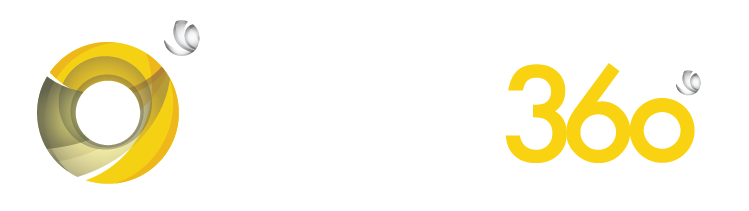
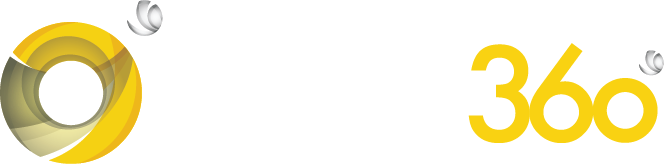
fix some issues

Changed region(s): [[0.0, 0.0, 0.2711, 1.0], [0.6627, 0.2744, 0.994, 0.8841], [0.9639, 0.3049, 1.0, 0.4573]]

diff --git a/css/BIMViewer.css b/css/BIMViewer.css
@@ -8,8 +8,7 @@
     justify-content: flex-start;
     background: transparent;
     pointer-events: none;
-    padding: 10px;
-
+    padding: 22px;
 }
 
 .xeokit-btn-group {
@@ -31,11 +30,11 @@
 }
 
 .xeokit-logo-image {
-    
+    padding: 10px;
 }
 
 .xeokit-logo-image img {
-    height: 75px;
+    height: 60px;
 }
 
 .xeokit-btn {
@@ -229,8 +228,18 @@
     outline: none;
 }
 
+.xeokit-unloadAllModels.xeokit-btn {
+    transform: translateX(-35px);
+}
+
 .btn-img-div {
     display: flex;
+}
+
+.xeokit-showAllObjects .btn-img-div img,
+.xeokit-showAllClasses .btn-img-div img,
+.xeokit-showAllStoreys .btn-img-div img {
+    transform: translateY(-2px);
 }
 
 .btn-img-div span {
@@ -681,6 +690,7 @@
 
 
 .annotation-marker {
+    font-family: 'Montserrat', sans-serif !important;
     color: black !important;
     background-color: white !important;
     border: 2px solid red !important;
